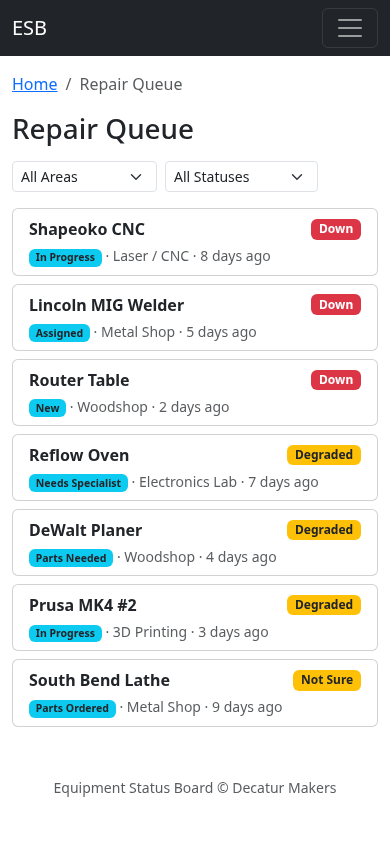
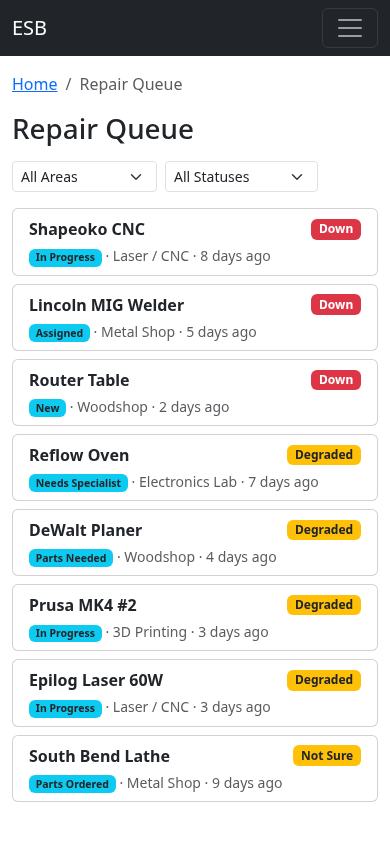
Issue #23: add repair history table to equipment detail page
Previously, when a repair record was moved to a closed status (Resolved,
Closed - No Issue Found, Closed - Duplicate) it disappeared from the UI
entirely, leaving no way to see an individual machine's historical repairs.

Add a "Repair History" card to the equipment detail page (/equipment/<id>)
that lists every repair record ever filed against that machine, regardless
of status, newest first. Each row is a clickable link to the full repair
record. Resolved rows use a green badge; "Closed - No Issue Found" and
"Closed - Duplicate" use neutral gray so they are not mistaken for wins.

Implementation notes:

- repair_service.list_repair_records() now eager-loads RepairRecord.assignee
  to avoid N+1 queries when rendering the table.
- docs/staff.md describes the new section; docs/images/equipment-detail.png
  is regenerated via scripts/generate_screenshots.py (which now seeds repair
  records for the Epilog Laser 60W and captures the equipment detail page
  with full_page=True so the new section is visible).
- Test coverage: 10 new view tests (open/resolved/closed records visible,
  ordering, filtering to the correct equipment, empty state, archived
  equipment still shows history, unauthenticated redirect, stricter check
  that the row's data-href actually points at the repair detail URL) plus
  one service test that asserts no lazy queries fire after joinedload.

Changed region(s): [[0.0615, 0.8009, 0.9231, 0.955], [0.7385, 0.7701, 0.8923, 0.8318]]

diff --git a/esb/templates/equipment/detail.html b/esb/templates/equipment/detail.html
@@ -225,6 +225,64 @@
     </div>
 </div>
 
+{# --- Repair History Section --- #}
+<div class="card mb-4">
+    <div class="card-header d-flex justify-content-between align-items-center">
+        <h5 class="mb-0">Repair History</h5>
+    </div>
+    <div class="card-body">
+        {% if repair_records %}
+        <div class="table-responsive">
+            <table class="table table-hover mb-0" id="repair-history-table">
+                <thead>
+                    <tr>
+                        <th>Opened</th>
+                        <th>Severity</th>
+                        <th>Status</th>
+                        <th>Assignee</th>
+                        <th>Description</th>
+                    </tr>
+                </thead>
+                <tbody>
+                    {% for record in repair_records %}
+                    <tr class="repair-history-row {% if record.status in closed_statuses %}text-muted{% endif %}"
+                        role="link" tabindex="0"
+                        aria-label="Repair record opened {{ record.created_at|relative_time }}: {{ record.description }}"
+                        data-href="{{ url_for('repairs.detail', id=record.id) }}">
+                        <td title="{{ record.created_at|format_datetime }}">{{ record.created_at|relative_time }}</td>
+                        <td>
+                            {% if record.severity == 'Down' %}
+                            <span class="badge bg-danger">Down</span>
+                            {% elif record.severity in ['Degraded', 'Not Sure'] %}
+                            <span class="badge bg-warning text-dark">{{ record.severity }}</span>
+                            {% elif record.severity %}
+                            <span class="badge bg-secondary">{{ record.severity }}</span>
+                            {% else %}
+                            <span class="badge bg-secondary">None</span>
+                            {% endif %}
+                        </td>
+                        <td>
+                            {% if record.status == 'Resolved' %}
+                            <span class="badge bg-success">{{ record.status }}</span>
+                            {% elif record.status in closed_statuses %}
+                            <span class="badge bg-secondary">{{ record.status }}</span>
+                            {% else %}
+                            <span class="badge bg-info text-dark">{{ record.status }}</span>
+                            {% endif %}
+                        </td>
+                        <td>{{ record.assignee.username if record.assignee else '' }}</td>
+                        <td class="text-truncate" style="max-width: 24rem;" title="{{ record.description }}">{{ record.description }}</td>
+                    </tr>
+                    {% endfor %}
+                </tbody>
+            </table>
+        </div>
+        {% else %}
+        <p class="text-muted text-center mb-0">No repair records yet.</p>
+        {% endif %}
+    </div>
+</div>
+
 {# --- Links Section --- #}
 <div class="card mb-4">
     <div class="card-header d-flex justify-content-between align-items-center">

diff --git a/esb/static/js/app.js b/esb/static/js/app.js
@@ -2,7 +2,7 @@
 
 document.addEventListener('DOMContentLoaded', function () {
   // --- Clickable queue rows (with keyboard support) ---
-  document.querySelectorAll('.queue-row[data-href]').forEach(function (row) {
+  document.querySelectorAll('.queue-row[data-href], .repair-history-row[data-href]').forEach(function (row) {
     row.style.cursor = 'pointer';
     row.addEventListener('click', function () {
       window.location.href = row.dataset.href;

diff --git a/tests/test_views/test_equipment_views.py b/tests/test_views/test_equipment_views.py
@@ -2,6 +2,8 @@
 
 import io
 import json
+import re
+from datetime import datetime
 
 from esb.extensions import db as _db
 from esb.models.document import Document
@@ -204,6 +206,156 @@ class TestEquipmentDetail:
         eq = make_equipment('Item', 'Co', 'M')
         resp = tech_client.get(f'/equipment/{eq.id}')
         assert b'Edit' not in resp.data
+
+
+class TestEquipmentDetailRepairHistory:
+    """Tests for the Repair History section on GET /equipment/<id>."""
+
+    def test_repair_history_section_rendered(self, staff_client, make_equipment):
+        """The Repair History card is always rendered on the detail page."""
+        eq = make_equipment('Table Saw', 'SawStop', 'PCS')
+        resp = staff_client.get(f'/equipment/{eq.id}')
+        assert resp.status_code == 200
+        assert b'Repair History' in resp.data
+
+    def test_empty_state_when_no_records(self, staff_client, make_equipment):
+        """Empty state message is shown when the equipment has no repair records."""
+        eq = make_equipment('Table Saw', 'SawStop', 'PCS')
+        resp = staff_client.get(f'/equipment/{eq.id}')
+        assert resp.status_code == 200
+        assert b'No repair records yet.' in resp.data
+
+    def test_open_record_appears_in_history(
+        self, staff_client, make_equipment, make_repair_record,
+    ):
+        """Open repair records are listed in the history table."""
+        eq = make_equipment('Table Saw', 'SawStop', 'PCS')
+        rec = make_repair_record(
+            equipment=eq, status='New', severity='Down',
+            description='Motor making grinding noise',
+        )
+        resp = staff_client.get(f'/equipment/{eq.id}')
+        assert resp.status_code == 200
+        assert b'Motor making grinding noise' in resp.data
+        assert b'repair-history-table' in resp.data
+        # Row is clickable and data-href points at the repair detail page
+        body = resp.data.decode()
+        match = re.search(
+            r'<tr[^>]*class="repair-history-row[^"]*"[^>]*data-href="([^"]+)"',
+            body,
+        )
+        assert match is not None
+        assert match.group(1) == f'/repairs/{rec.id}'
+
+    def test_resolved_record_still_visible_in_history(
+        self, staff_client, make_equipment, make_repair_record,
+    ):
+        """Resolved repair records remain visible (this is the Issue #23 fix)."""
+        eq = make_equipment('Drill Press', 'JET', 'JDP-17')
+        rec = make_repair_record(
+            equipment=eq, status='Resolved', severity='Degraded',
+            description='Belt replaced; tested OK.',
+        )
+        resp = staff_client.get(f'/equipment/{eq.id}')
+        assert resp.status_code == 200
+        assert b'Belt replaced; tested OK.' in resp.data
+        assert f'/repairs/{rec.id}'.encode() in resp.data
+        assert b'Resolved' in resp.data
+
+    def test_closed_no_issue_and_duplicate_visible(
+        self, staff_client, make_equipment, make_repair_record,
+    ):
+        """Other closed statuses (No Issue Found, Duplicate) are also shown."""
+        eq = make_equipment('Laser', 'Epilog', 'Helix')
+        make_repair_record(
+            equipment=eq, status='Closed - No Issue Found',
+            description='Could not reproduce',
+        )
+        make_repair_record(
+            equipment=eq, status='Closed - Duplicate',
+            description='Same as #42',
+        )
+        resp = staff_client.get(f'/equipment/{eq.id}')
+        assert resp.status_code == 200
+        assert b'Could not reproduce' in resp.data
+        assert b'Same as #42' in resp.data
+        assert b'Closed - No Issue Found' in resp.data
+        assert b'Closed - Duplicate' in resp.data
+
+    def test_history_ordered_newest_first(
+        self, staff_client, make_equipment, make_repair_record,
+    ):
+        """Repair history is ordered most recent first."""
+        eq = make_equipment('CNC', 'ShopBot', 'Desktop')
+        older = make_repair_record(
+            equipment=eq, status='Resolved', description='First issue',
+        )
+        older.created_at = datetime(2024, 1, 1, 12, 0, 0)
+        newer = make_repair_record(
+            equipment=eq, status='New', description='Second issue',
+        )
+        newer.created_at = datetime(2024, 6, 1, 12, 0, 0)
+        _db.session.commit()
+
+        resp = staff_client.get(f'/equipment/{eq.id}')
+        body = resp.data.decode()
+        assert body.index('Second issue') < body.index('First issue')
+
+    def test_history_filters_to_this_equipment(
+        self, staff_client, make_area, make_equipment, make_repair_record,
+    ):
+        """Repair records for other equipment do not appear in this page's history."""
+        area1 = make_area('Woodshop', '#wood')
+        area2 = make_area('Metal Shop', '#metal')
+        eq1 = make_equipment('Table Saw', 'SawStop', 'PCS', area=area1)
+        eq2 = make_equipment('Drill Press', 'JET', 'JDP-17', area=area2)
+        make_repair_record(equipment=eq1, status='New', description='Saw blade issue')
+        make_repair_record(equipment=eq2, status='New', description='Drill chuck issue')
+
+        resp = staff_client.get(f'/equipment/{eq1.id}')
+        assert b'Saw blade issue' in resp.data
+        assert b'Drill chuck issue' not in resp.data
+
+    def test_technician_sees_repair_history(
+        self, tech_client, make_equipment, make_repair_record,
+    ):
+        """Technicians can see repair history on the equipment page."""
+        eq = make_equipment('Table Saw', 'SawStop', 'PCS')
+        make_repair_record(
+            equipment=eq, status='Resolved', description='Historical repair',
+        )
+        resp = tech_client.get(f'/equipment/{eq.id}')
+        assert resp.status_code == 200
+        assert b'Historical repair' in resp.data
+
+    def test_archived_equipment_still_shows_history(
+        self, staff_client, make_equipment, make_repair_record,
+    ):
+        """Archiving equipment does not hide its repair history."""
+        eq = make_equipment('Retired Mill', 'Old Co', 'V1')
+        make_repair_record(
+            equipment=eq, status='Resolved',
+            description='Spindle replaced before archive',
+        )
+        eq.is_archived = True
+        _db.session.commit()
+
+        resp = staff_client.get(f'/equipment/{eq.id}')
+        assert resp.status_code == 200
+        assert b'Spindle replaced before archive' in resp.data
+        assert b'Repair History' in resp.data
+
+    def test_unauthenticated_cannot_see_history(
+        self, client, make_equipment, make_repair_record,
+    ):
+        """Unauthenticated users are redirected to login (history not exposed)."""
+        eq = make_equipment('Table Saw', 'SawStop', 'PCS')
+        make_repair_record(
+            equipment=eq, status='New', description='Confidential repair note',
+        )
+        resp = client.get(f'/equipment/{eq.id}')
+        assert resp.status_code == 302
+        assert '/auth/login' in resp.headers['Location']
 
 
 class TestEditEquipment:

diff --git a/scripts/generate_screenshots.py b/scripts/generate_screenshots.py
@@ -319,6 +319,29 @@ def seed_database():
                      'First layer adhesion issues. Possibly needs PINDA probe recalibration.',
                      assignee=jsmith, days_in_column=2)
 
+        # Repair records for Epilog Laser 60W (used in the equipment-detail screenshot
+        # to demonstrate the Repair History section)
+        make_repair(
+            'Epilog Laser 60W', 'Resolved', 'Down',
+            'Laser not firing. Replaced tube and realigned mirrors.',
+            assignee=jsmith, days_in_column=45,
+        )
+        make_repair(
+            'Epilog Laser 60W', 'Closed - No Issue Found', 'Degraded',
+            'Cuts appear inconsistent. On inspection, focus was simply set wrong.',
+            assignee=mgarcia, days_in_column=18,
+        )
+        make_repair(
+            'Epilog Laser 60W', 'Resolved', 'Degraded',
+            'Exhaust fan rattling. Rebalanced blade and re-secured duct clamps.',
+            assignee=jsmith, days_in_column=7,
+        )
+        make_repair(
+            'Epilog Laser 60W', 'In Progress', 'Degraded',
+            'Slight drift in X-axis homing. Investigating belt tension.',
+            assignee=jsmith, days_in_column=2,
+        )
+
         # Repair 8: Resolved example (for repair detail screenshot with rich timeline)
         resolved_repair = make_repair(
             'Horizontal Bandsaw', 'Resolved', 'Down',
@@ -494,10 +517,11 @@ def capture_screenshots(ids):
         page.screenshot(path=str(IMAGES_DIR / 'kanban-board.png'))
 
         # -- 9. Equipment detail (staff, desktop) --
+        # full_page=True so the Repair History table (below the fold) is visible.
         print('  Capturing: equipment-detail.png')
         page.goto(f'{BASE_URL}/equipment/{ids["detail_equipment_id"]}')
         page.wait_for_load_state('networkidle')
-        page.screenshot(path=str(IMAGES_DIR / 'equipment-detail.png'))
+        page.screenshot(path=str(IMAGES_DIR / 'equipment-detail.png'), full_page=True)
 
         # -- 10. User management (staff, desktop) --
         print('  Capturing: user-management.png')

diff --git a/tests/test_services/test_repair_service.py b/tests/test_services/test_repair_service.py
@@ -623,6 +623,38 @@ class TestListRepairRecords:
         records = repair_service.list_repair_records()
         assert records == []
 
+    def test_eager_loads_assignee_to_avoid_n_plus_one(
+        self, app, make_equipment, tech_user,
+    ):
+        """Accessing record.assignee after the query should not trigger extra queries."""
+        eq = make_equipment()
+        for i in range(5):
+            _db.session.add(RepairRecord(
+                equipment_id=eq.id, description=f'Issue {i}',
+                assignee_id=tech_user.id,
+            ))
+        _db.session.commit()
+        _db.session.expire_all()
+
+        records = repair_service.list_repair_records(equipment_id=eq.id)
+        # Close the session's identity map window: force a fresh load path,
+        # then assert no lazy query fires when touching assignee.
+        from sqlalchemy import event
+        query_count = [0]
+
+        def _count(conn, cursor, statement, params, context, executemany):
+            query_count[0] += 1
+
+        event.listen(_db.engine, 'before_cursor_execute', _count)
+        try:
+            usernames = [r.assignee.username for r in records]
+        finally:
+            event.remove(_db.engine, 'before_cursor_execute', _count)
+
+        assert all(u == tech_user.username for u in usernames)
+        assert query_count[0] == 0, \
+            f'Expected no lazy queries after joinedload, got {query_count[0]}'
+
 
 class TestUpdateRepairRecord:
     """Tests for update_repair_record()."""

diff --git a/esb/views/equipment.py b/esb/views/equipment.py
@@ -23,7 +23,7 @@ from esb.forms.equipment_forms import (
     ExternalLinkForm,
     PhotoUploadForm,
 )
-from esb.services import equipment_service, upload_service
+from esb.services import equipment_service, repair_service, upload_service
 from esb.utils.decorators import role_required
 from esb.utils.exceptions import ValidationError
 
@@ -123,6 +123,7 @@ def detail(id):
     documents = upload_service.get_documents('equipment_doc', id)
     photos = upload_service.get_documents('equipment_photo', id)
     links = equipment_service.get_equipment_links(id)
+    repair_records = repair_service.list_repair_records(equipment_id=id)
     doc_form = DocumentUploadForm()
     photo_form = PhotoUploadForm()
     link_form = ExternalLinkForm()
@@ -134,6 +135,8 @@ def detail(id):
         documents=documents,
         photos=photos,
         links=links,
+        repair_records=repair_records,
+        closed_statuses=repair_service.CLOSED_STATUSES,
         doc_form=doc_form,
         photo_form=photo_form,
         link_form=link_form,

diff --git a/esb/services/repair_service.py b/esb/services/repair_service.py
@@ -200,12 +200,16 @@ def list_repair_records(
     Returns:
         List of RepairRecord instances ordered by created_at desc.
     """
-    query = db.select(RepairRecord).order_by(RepairRecord.created_at.desc())
+    query = (
+        db.select(RepairRecord)
+        .options(joinedload(RepairRecord.assignee))
+        .order_by(RepairRecord.created_at.desc())
+    )
     if equipment_id is not None:
         query = query.filter_by(equipment_id=equipment_id)
     if status is not None:
         query = query.filter_by(status=status)
-    return list(db.session.execute(query).scalars().all())
+    return list(db.session.execute(query).scalars().unique().all())
 
 
 CLOSED_STATUSES = ['Resolved', 'Closed - No Issue Found', 'Closed - Duplicate']

diff --git a/docs/staff.md b/docs/staff.md
@@ -108,6 +108,12 @@ From the equipment detail page, you can upload and manage reference materials:
 - **Photos** — Upload equipment photos for identification
 - **Links** — Add external URLs for product pages, support sites, training videos, and other online resources
 
+### Repair History
+
+The equipment detail page includes a **Repair History** table listing every repair record that has ever been filed against that piece of equipment — both open and resolved, **newest first**. Each row shows when the issue was opened, its severity, current status, assignee, and a short description. Click any row to jump to the full repair record, including timeline notes and photos.
+
+Resolved records (including "Closed - No Issue Found" and "Closed - Duplicate") remain in the history permanently so you can trace the repair history of a machine over its lifetime.
+
 ### Archiving Equipment
 
 When a piece of equipment is retired or removed from the space, archive it instead of deleting it. Archiving is a soft delete that preserves all history (repair records, documents, photos) while removing the equipment from active views.
